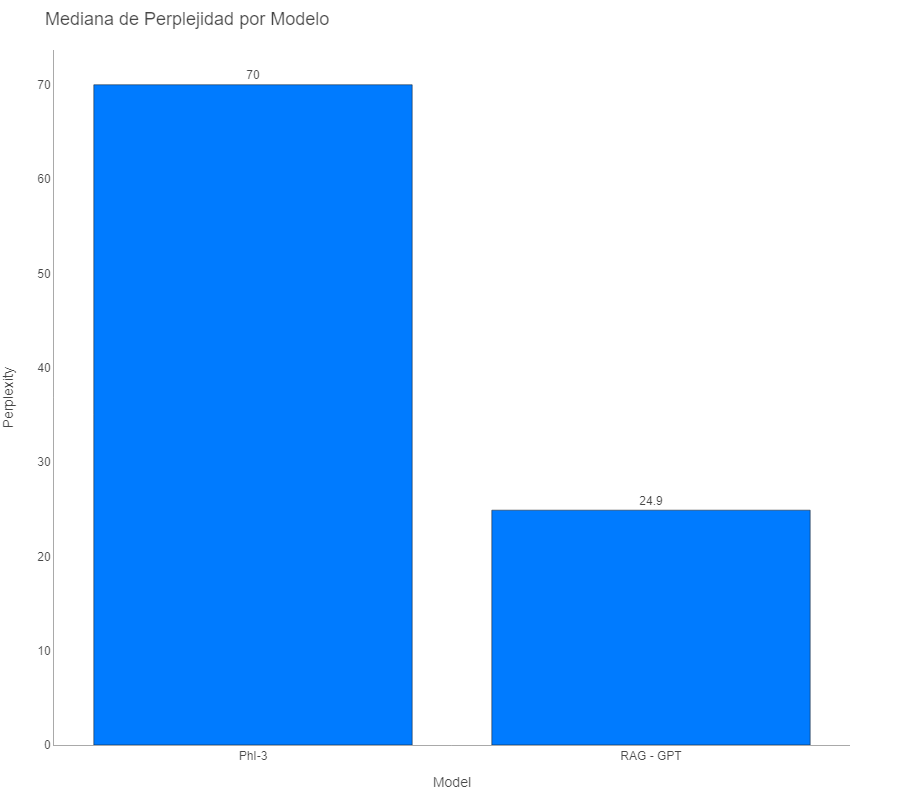
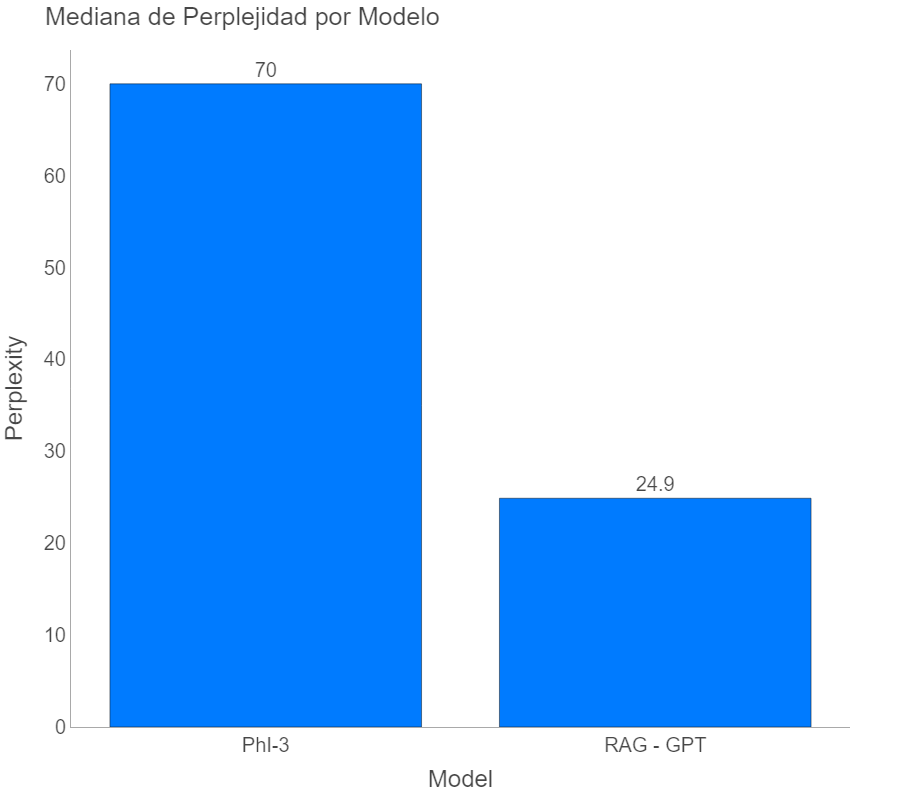
add the final comments in the index

diff --git a/index.md b/index.md
@@ -121,7 +121,8 @@ Para el uso de las herramientas desarrolladas en este proyecto, se ha creado una
 
 La métrica de perplexity se utiliza para evaluar la calidad de los modelos de lenguaje. En términos generales, la perplexity mide cuán bien un modelo de lenguaje puede predecir una secuencia de palabras. Un valor de perplexity más bajo indica que el modelo es mejor para predecir el texto.
 
-![Perplexity](./figures/perplex.png)
+<img src="./figures/perplex.png" width="400" height="320" alt="Descripción de la imagen">
+
 
 Basado en la figura anterior el enfoque RAG logra una mejor capacidad predictiva y coherencia en la generación de texto en comparación con el modelo Phi-3 fine-tuned.
 ## Conclusiones
